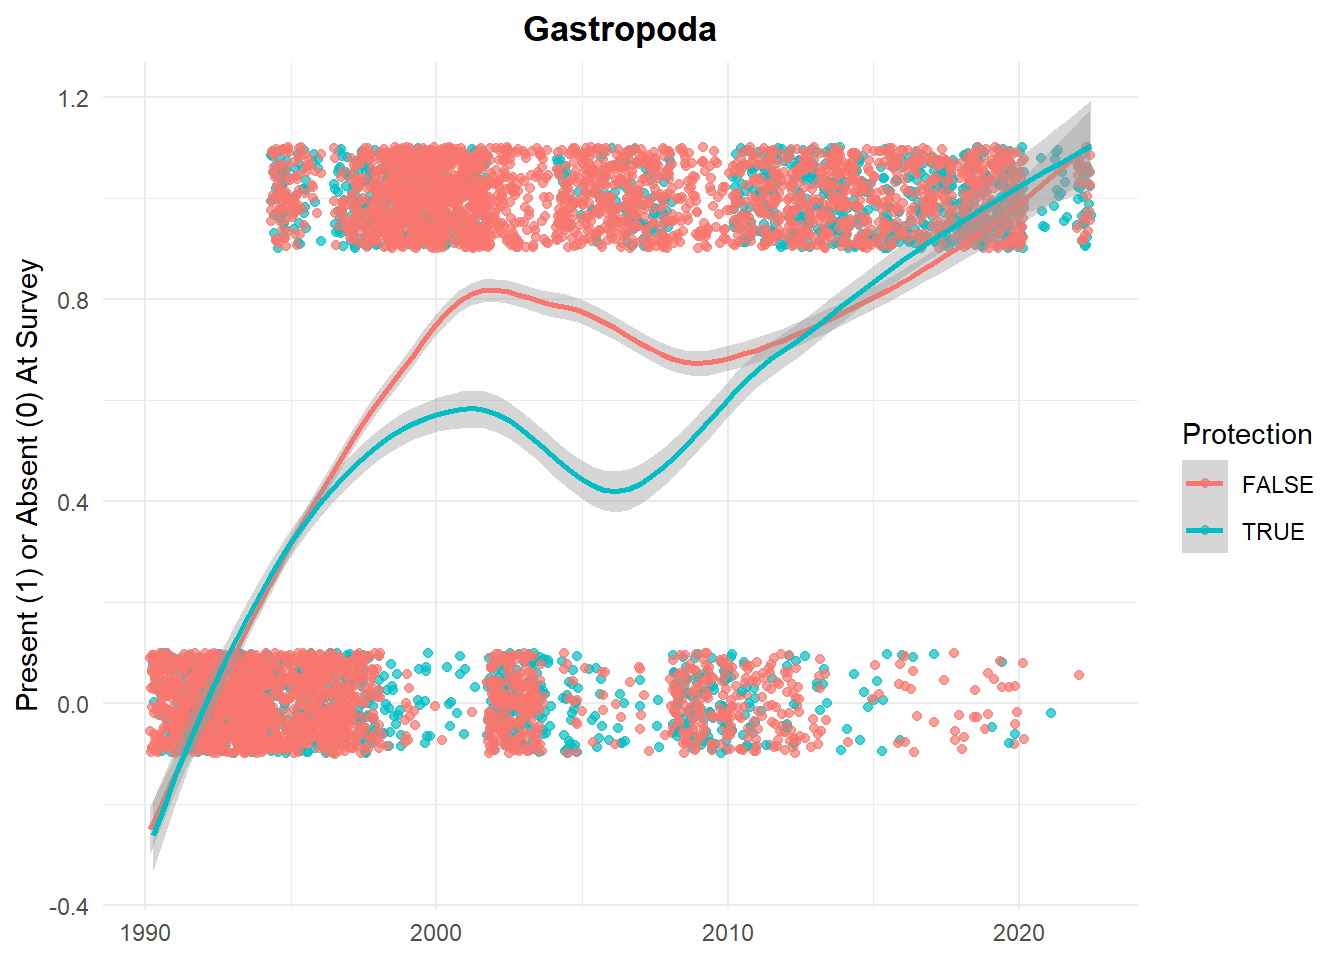
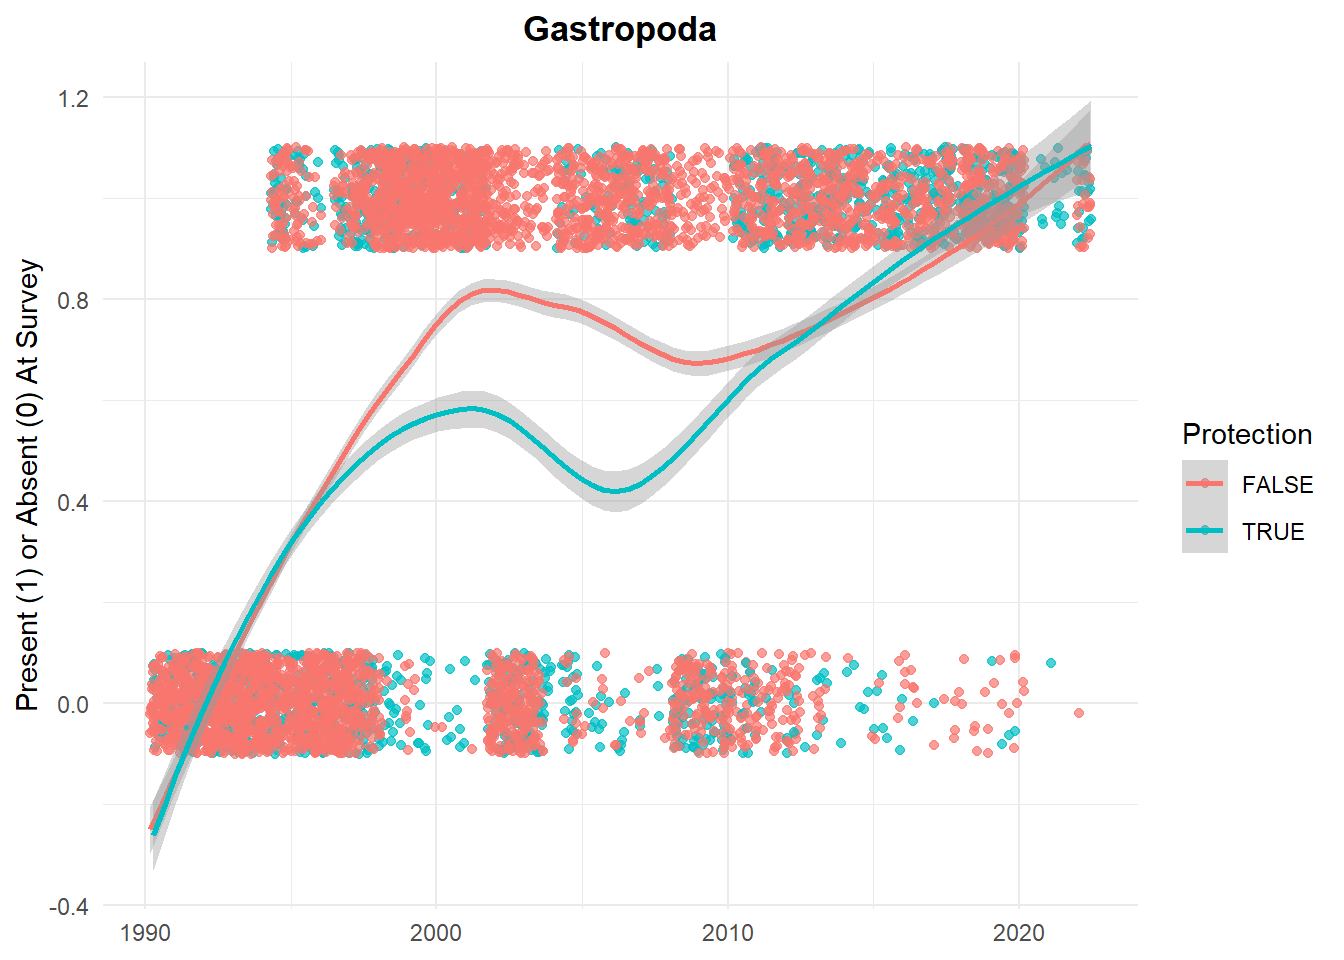
Fixed stats plots

Changed region(s): [[0.1875, 0.125, 0.8125, 0.2812], [0.1562, 0.6562, 0.7812, 0.8125], [0.0938, 0.6562, 0.1562, 0.7812]]

diff --git a/docs/posts/2022-12-9-stats-proj/index.html b/docs/posts/2022-12-9-stats-proj/index.html
@@ -267,6 +267,7 @@ code span.wa { color: #60a0b0; font-weight: bold; font-style: italic; } /* Warni
 </details>
 </div>
 <p>The protection data was not immediately available, I had to create a data frame with the values 1 for protected, 0 for unprotected. Protection was determined by the location of the piers. A pier is labeled unprotected if located in populated developed areas such as Ocean Beach, San Diego; protected piers are located in undeveloped parks surrounded by marine protected areas, including Channel Islands National Park and Point Cabrillo State Marine Reserve.</p>
[1 lines of base64/hex data omitted]
 <div class="cell">
 <details>
 <summary>Show the code</summary>
@@ -640,7 +641,7 @@ SpeciesPresence = B_0 + B_1 date_t + B_2 protection + E_t
 <summary>Show the code</summary>
 <div class="sourceCode cell-code" id="cb9"><pre class="sourceCode r code-with-copy"><code class="sourceCode r"><span id="cb9-1"><a href="#cb9-1" aria-hidden="true" tabindex="-1"></a><span class="fu">summary</span>(<span class="fu">lm</span>(TOTAL_URCHINS <span class="sc">~</span> DATE_RETRIEVED <span class="sc">+</span> Protection, <span class="at">data =</span> PresentDF))</span>
 <span id="cb9-2"><a href="#cb9-2" aria-hidden="true" tabindex="-1"></a>Time_Urch <span class="ot">&lt;-</span> <span class="fu">ggplot</span>(PresentDF, <span class="fu">aes</span>(<span class="at">x =</span> DATE_RETRIEVED, <span class="at">y =</span> TOTAL_URCHINS, <span class="at">color =</span> Protection)) <span class="sc">+</span></span>
-<span id="cb9-3"><a href="#cb9-3" aria-hidden="true" tabindex="-1"></a>  <span class="fu">geom_jitter</span>(<span class="at">height =</span> .<span class="dv">1</span>, <span class="at">alpha =</span> .<span class="dv">7</span>) <span class="sc">+</span></span>
+<span id="cb9-3"><a href="#cb9-3" aria-hidden="true" tabindex="-1"></a>  <span class="fu">geom_jitter</span>(<span class="at">height =</span> .<span class="dv">1</span>, <span class="at">alpha =</span> .<span class="dv">6</span>) <span class="sc">+</span></span>
 <span id="cb9-4"><a href="#cb9-4" aria-hidden="true" tabindex="-1"></a>  <span class="fu">geom_smooth</span>(<span class="at">method =</span> loess, <span class="at">formula =</span> <span class="st">'y ~ x'</span>) <span class="sc">+</span></span>
 <span id="cb9-5"><a href="#cb9-5" aria-hidden="true" tabindex="-1"></a>  <span class="fu">theme_minimal</span>() <span class="sc">+</span></span>
 <span id="cb9-6"><a href="#cb9-6" aria-hidden="true" tabindex="-1"></a>  <span class="fu">labs</span>(<span class="at">title =</span> <span class="st">"Total Urchins"</span>,</span>
@@ -651,7 +652,7 @@ SpeciesPresence = B_0 + B_1 date_t + B_2 protection + E_t
 <span id="cb9-11"><a href="#cb9-11" aria-hidden="true" tabindex="-1"></a></span>
 <span id="cb9-12"><a href="#cb9-12" aria-hidden="true" tabindex="-1"></a><span class="fu">summary</span>(<span class="fu">lm</span>(ARTHROPODA <span class="sc">~</span> DATE_RETRIEVED <span class="sc">+</span> Protection, <span class="at">data =</span> PresentDF))</span>
 <span id="cb9-13"><a href="#cb9-13" aria-hidden="true" tabindex="-1"></a>Time_Art <span class="ot">&lt;-</span> <span class="fu">ggplot</span>(PresentDF, <span class="fu">aes</span>(<span class="at">x =</span> DATE_RETRIEVED, <span class="at">y =</span> ARTHROPODA, <span class="at">color =</span> Protection)) <span class="sc">+</span></span>
-<span id="cb9-14"><a href="#cb9-14" aria-hidden="true" tabindex="-1"></a>  <span class="fu">geom_jitter</span>(<span class="at">height =</span> .<span class="dv">1</span>, <span class="at">alpha =</span> .<span class="dv">7</span>) <span class="sc">+</span></span>
+<span id="cb9-14"><a href="#cb9-14" aria-hidden="true" tabindex="-1"></a>  <span class="fu">geom_jitter</span>(<span class="at">height =</span> .<span class="dv">1</span>, <span class="at">alpha =</span> .<span class="dv">6</span>) <span class="sc">+</span></span>
 <span id="cb9-15"><a href="#cb9-15" aria-hidden="true" tabindex="-1"></a>  <span class="fu">geom_smooth</span>(<span class="at">method =</span> loess, <span class="at">formula =</span> <span class="st">'y ~ x'</span>) <span class="sc">+</span></span>
 <span id="cb9-16"><a href="#cb9-16" aria-hidden="true" tabindex="-1"></a>  <span class="fu">theme_minimal</span>() <span class="sc">+</span></span>
 <span id="cb9-17"><a href="#cb9-17" aria-hidden="true" tabindex="-1"></a>  <span class="fu">labs</span>(<span class="at">title =</span> <span class="st">"Arthropoda"</span>,</span>
@@ -662,29 +663,29 @@ SpeciesPresence = B_0 + B_1 date_t + B_2 protection + E_t
 <span id="cb9-22"><a href="#cb9-22" aria-hidden="true" tabindex="-1"></a></span>
 <span id="cb9-23"><a href="#cb9-23" aria-hidden="true" tabindex="-1"></a><span class="fu">summary</span>(<span class="fu">lm</span>(BIVALVIA <span class="sc">~</span> DATE_RETRIEVED <span class="sc">+</span> Protection, <span class="at">data =</span> PresentDF))</span>
 <span id="cb9-24"><a href="#cb9-24" aria-hidden="true" tabindex="-1"></a>Time_Biv <span class="ot">&lt;-</span> <span class="fu">ggplot</span>(PresentDF, <span class="fu">aes</span>(<span class="at">x =</span> DATE_RETRIEVED, <span class="at">y =</span> BIVALVIA, <span class="at">color =</span> Protection)) <span class="sc">+</span></span>
-<span id="cb9-25"><a href="#cb9-25" aria-hidden="true" tabindex="-1"></a>  <span class="fu">geom_jitter</span>(<span class="at">height =</span> .<span class="dv">1</span>, <span class="at">alpha =</span> .<span class="dv">7</span>) <span class="sc">+</span></span>
+<span id="cb9-25"><a href="#cb9-25" aria-hidden="true" tabindex="-1"></a>  <span class="fu">geom_jitter</span>(<span class="at">height =</span> .<span class="dv">1</span>, <span class="at">alpha =</span> .<span class="dv">6</span>) <span class="sc">+</span></span>
 <span id="cb9-26"><a href="#cb9-26" aria-hidden="true" tabindex="-1"></a>  <span class="fu">geom_smooth</span>(<span class="at">method =</span> loess, <span class="at">formula =</span> <span class="st">'y ~ x'</span>) <span class="sc">+</span></span>
 <span id="cb9-27"><a href="#cb9-27" aria-hidden="true" tabindex="-1"></a>  <span class="fu">theme_minimal</span>() <span class="sc">+</span></span>
 <span id="cb9-28"><a href="#cb9-28" aria-hidden="true" tabindex="-1"></a>  <span class="fu">labs</span>(<span class="at">title =</span> <span class="st">"Bivalvia"</span>,</span>
-<span id="cb9-29"><a href="#cb9-29" aria-hidden="true" tabindex="-1"></a>       <span class="at">x =</span> <span class="cn">NULL</span>,</span>
-<span id="cb9-30"><a href="#cb9-30" aria-hidden="true" tabindex="-1"></a>       <span class="at">y =</span> <span class="cn">NULL</span>) <span class="sc">+</span></span>
+<span id="cb9-29"><a href="#cb9-29" aria-hidden="true" tabindex="-1"></a>       <span class="at">x =</span> <span class="cn">NULL</span>) <span class="sc">+</span></span>
+<span id="cb9-30"><a href="#cb9-30" aria-hidden="true" tabindex="-1"></a>  <span class="fu">ylab</span>(<span class="st">"Present (1) or Absent (0) At Survey"</span>) <span class="sc">+</span></span>
 <span id="cb9-31"><a href="#cb9-31" aria-hidden="true" tabindex="-1"></a>  <span class="fu">theme</span>(<span class="at">plot.title =</span> <span class="fu">element_text</span>(<span class="at">face =</span> <span class="st">"bold"</span>,</span>
 <span id="cb9-32"><a href="#cb9-32" aria-hidden="true" tabindex="-1"></a>                                  <span class="at">hjust =</span> .<span class="dv">5</span>))</span>
 <span id="cb9-33"><a href="#cb9-33" aria-hidden="true" tabindex="-1"></a></span>
 <span id="cb9-34"><a href="#cb9-34" aria-hidden="true" tabindex="-1"></a><span class="fu">summary</span>(<span class="fu">lm</span>(GASTROPODA <span class="sc">~</span> DATE_RETRIEVED <span class="sc">+</span> Protection, <span class="at">data =</span> PresentDF))</span>
 <span id="cb9-35"><a href="#cb9-35" aria-hidden="true" tabindex="-1"></a>Time_Gast <span class="ot">&lt;-</span> <span class="fu">ggplot</span>(PresentDF, <span class="fu">aes</span>(<span class="at">x =</span> DATE_RETRIEVED, <span class="at">y =</span> GASTROPODA, <span class="at">color =</span> Protection)) <span class="sc">+</span></span>
-<span id="cb9-36"><a href="#cb9-36" aria-hidden="true" tabindex="-1"></a>  <span class="fu">geom_jitter</span>(<span class="at">height =</span> .<span class="dv">1</span>, <span class="at">alpha =</span> .<span class="dv">7</span>) <span class="sc">+</span></span>
+<span id="cb9-36"><a href="#cb9-36" aria-hidden="true" tabindex="-1"></a>  <span class="fu">geom_jitter</span>(<span class="at">height =</span> .<span class="dv">1</span>, <span class="at">alpha =</span> .<span class="dv">6</span>) <span class="sc">+</span></span>
 <span id="cb9-37"><a href="#cb9-37" aria-hidden="true" tabindex="-1"></a>  <span class="fu">geom_smooth</span>(<span class="at">method =</span> loess, <span class="at">formula =</span> <span class="st">'y ~ x'</span>) <span class="sc">+</span></span>
 <span id="cb9-38"><a href="#cb9-38" aria-hidden="true" tabindex="-1"></a>  <span class="fu">theme_minimal</span>() <span class="sc">+</span></span>
 <span id="cb9-39"><a href="#cb9-39" aria-hidden="true" tabindex="-1"></a>  <span class="fu">labs</span>(<span class="at">title =</span> <span class="st">"Gastropoda"</span>,</span>
-<span id="cb9-40"><a href="#cb9-40" aria-hidden="true" tabindex="-1"></a>       <span class="at">x =</span> <span class="cn">NULL</span>) <span class="sc">+</span></span>
-<span id="cb9-41"><a href="#cb9-41" aria-hidden="true" tabindex="-1"></a>  <span class="fu">ylab</span>(<span class="st">"Present (1) or Absent (0) At Survey"</span>) <span class="sc">+</span></span>
+<span id="cb9-40"><a href="#cb9-40" aria-hidden="true" tabindex="-1"></a>       <span class="at">x =</span> <span class="cn">NULL</span>,</span>
+<span id="cb9-41"><a href="#cb9-41" aria-hidden="true" tabindex="-1"></a>       <span class="at">y =</span> <span class="cn">NULL</span>) <span class="sc">+</span></span>
 <span id="cb9-42"><a href="#cb9-42" aria-hidden="true" tabindex="-1"></a>  <span class="fu">theme</span>(<span class="at">plot.title =</span> <span class="fu">element_text</span>(<span class="at">face =</span> <span class="st">"bold"</span>,</span>
 <span id="cb9-43"><a href="#cb9-43" aria-hidden="true" tabindex="-1"></a>                                  <span class="at">hjust =</span> .<span class="dv">5</span>))</span>
 <span id="cb9-44"><a href="#cb9-44" aria-hidden="true" tabindex="-1"></a></span>
 <span id="cb9-45"><a href="#cb9-45" aria-hidden="true" tabindex="-1"></a><span class="fu">summary</span>(<span class="fu">lm</span>(OPHIUROIDEA_ASTERPODEA <span class="sc">~</span> DATE_RETRIEVED <span class="sc">+</span> Protection, <span class="at">data =</span> PresentDF))</span>
 <span id="cb9-46"><a href="#cb9-46" aria-hidden="true" tabindex="-1"></a>Time_Oph <span class="ot">&lt;-</span> <span class="fu">ggplot</span>(PresentDF, <span class="fu">aes</span>(<span class="at">x =</span> DATE_RETRIEVED, <span class="at">y =</span> OPHIUROIDEA_ASTERPODEA, <span class="at">color =</span> Protection)) <span class="sc">+</span></span>
-<span id="cb9-47"><a href="#cb9-47" aria-hidden="true" tabindex="-1"></a>  <span class="fu">geom_jitter</span>(<span class="at">height =</span> .<span class="dv">1</span>, <span class="at">alpha =</span> .<span class="dv">7</span>) <span class="sc">+</span></span>
+<span id="cb9-47"><a href="#cb9-47" aria-hidden="true" tabindex="-1"></a>  <span class="fu">geom_jitter</span>(<span class="at">height =</span> .<span class="dv">1</span>, <span class="at">alpha =</span> .<span class="dv">6</span>) <span class="sc">+</span></span>
 <span id="cb9-48"><a href="#cb9-48" aria-hidden="true" tabindex="-1"></a>  <span class="fu">geom_smooth</span>(<span class="at">method =</span> loess, <span class="at">formula =</span> <span class="st">'y ~ x'</span>) <span class="sc">+</span></span>
 <span id="cb9-49"><a href="#cb9-49" aria-hidden="true" tabindex="-1"></a>  <span class="fu">theme_minimal</span>() <span class="sc">+</span></span>
 <span id="cb9-50"><a href="#cb9-50" aria-hidden="true" tabindex="-1"></a>  <span class="fu">labs</span>(<span class="at">title =</span> <span class="st">"Ophiuroida/Asterpodea"</span>,</span>
@@ -695,7 +696,7 @@ SpeciesPresence = B_0 + B_1 date_t + B_2 protection + E_t
 <span id="cb9-55"><a href="#cb9-55" aria-hidden="true" tabindex="-1"></a></span>
 <span id="cb9-56"><a href="#cb9-56" aria-hidden="true" tabindex="-1"></a><span class="fu">summary</span>(<span class="fu">lm</span>(S_PURPURATUS <span class="sc">~</span> DATE_RETRIEVED <span class="sc">+</span> Protection, <span class="at">data =</span> PresentDF))</span>
 <span id="cb9-57"><a href="#cb9-57" aria-hidden="true" tabindex="-1"></a>Time_Purp <span class="ot">&lt;-</span> <span class="fu">ggplot</span>(PresentDF, <span class="fu">aes</span>(<span class="at">x =</span> DATE_RETRIEVED, <span class="at">y =</span> S_PURPURATUS, <span class="at">color =</span> Protection)) <span class="sc">+</span></span>
-<span id="cb9-58"><a href="#cb9-58" aria-hidden="true" tabindex="-1"></a>  <span class="fu">geom_jitter</span>(<span class="at">height =</span> .<span class="dv">1</span>, <span class="at">alpha =</span> .<span class="dv">7</span>) <span class="sc">+</span></span>
+<span id="cb9-58"><a href="#cb9-58" aria-hidden="true" tabindex="-1"></a>  <span class="fu">geom_jitter</span>(<span class="at">height =</span> .<span class="dv">1</span>, <span class="at">alpha =</span> .<span class="dv">6</span>) <span class="sc">+</span></span>
 <span id="cb9-59"><a href="#cb9-59" aria-hidden="true" tabindex="-1"></a>  <span class="fu">geom_smooth</span>(<span class="at">method =</span> loess, <span class="at">formula =</span> <span class="st">'y ~ x'</span>) <span class="sc">+</span></span>
 <span id="cb9-60"><a href="#cb9-60" aria-hidden="true" tabindex="-1"></a>  <span class="fu">theme_minimal</span>() <span class="sc">+</span></span>
 <span id="cb9-61"><a href="#cb9-61" aria-hidden="true" tabindex="-1"></a>  <span class="fu">labs</span>(<span class="at">title =</span> <span class="st">"S Purpuratus"</span>,</span>
@@ -706,7 +707,7 @@ SpeciesPresence = B_0 + B_1 date_t + B_2 protection + E_t
 <span id="cb9-66"><a href="#cb9-66" aria-hidden="true" tabindex="-1"></a></span>
 <span id="cb9-67"><a href="#cb9-67" aria-hidden="true" tabindex="-1"></a><span class="fu">summary</span>(<span class="fu">lm</span>(M_FRANCISCANUS <span class="sc">~</span> DATE_RETRIEVED <span class="sc">+</span> Protection, <span class="at">data =</span> PresentDF))</span>
 <span id="cb9-68"><a href="#cb9-68" aria-hidden="true" tabindex="-1"></a>Time_Franc <span class="ot">&lt;-</span> <span class="fu">ggplot</span>(PresentDF, <span class="fu">aes</span>(<span class="at">x =</span> DATE_RETRIEVED, <span class="at">y =</span> M_FRANCISCANUS, <span class="at">color =</span> Protection)) <span class="sc">+</span></span>
-<span id="cb9-69"><a href="#cb9-69" aria-hidden="true" tabindex="-1"></a>  <span class="fu">geom_jitter</span>(<span class="at">height =</span> .<span class="dv">1</span>, <span class="at">alpha =</span> .<span class="dv">7</span>) <span class="sc">+</span></span>
+<span id="cb9-69"><a href="#cb9-69" aria-hidden="true" tabindex="-1"></a>  <span class="fu">geom_jitter</span>(<span class="at">height =</span> .<span class="dv">1</span>, <span class="at">alpha =</span> .<span class="dv">6</span>) <span class="sc">+</span></span>
 <span id="cb9-70"><a href="#cb9-70" aria-hidden="true" tabindex="-1"></a>  <span class="fu">geom_smooth</span>(<span class="at">method =</span> loess, <span class="at">formula =</span> <span class="st">'y ~ x'</span>) <span class="sc">+</span></span>
 <span id="cb9-71"><a href="#cb9-71" aria-hidden="true" tabindex="-1"></a>  <span class="fu">theme_minimal</span>() <span class="sc">+</span></span>
 <span id="cb9-72"><a href="#cb9-72" aria-hidden="true" tabindex="-1"></a>  <span class="fu">labs</span>(<span class="at">title =</span> <span class="st">"M franciscanus"</span>,</span>
@@ -719,56 +720,13 @@ SpeciesPresence = B_0 + B_1 date_t + B_2 protection + E_t
 <div class="cell">
 <details>
 <summary>Show the code</summary>
-<div class="sourceCode cell-code" id="cb10"><pre class="sourceCode r code-with-copy"><code class="sourceCode r"><span id="cb10-1"><a href="#cb10-1" aria-hidden="true" tabindex="-1"></a><span class="co"># ggarrange(Time_Urch, Time_Art, Time_Biv, Time_Gast, Time_Oph, Time_Purp, Time_Franc + rremove("x.text"), </span></span>
-<span id="cb10-2"><a href="#cb10-2" aria-hidden="true" tabindex="-1"></a><span class="co">#           ncol = 1, nrow = 7,</span></span>
-<span id="cb10-3"><a href="#cb10-3" aria-hidden="true" tabindex="-1"></a><span class="co">#           common.legend = TRUE,</span></span>
-<span id="cb10-4"><a href="#cb10-4" aria-hidden="true" tabindex="-1"></a><span class="co">#           legend = "right")</span></span>
-<span id="cb10-5"><a href="#cb10-5" aria-hidden="true" tabindex="-1"></a>Time_Urch</span></code><button title="Copy to Clipboard" class="code-copy-button"><i class="bi"></i></button></pre></div>
+<div class="sourceCode cell-code" id="cb10"><pre class="sourceCode r code-with-copy"><code class="sourceCode r"><span id="cb10-1"><a href="#cb10-1" aria-hidden="true" tabindex="-1"></a><span class="fu">ggarrange</span>(Time_Urch, Time_Art, Time_Biv, Time_Gast, Time_Oph, Time_Purp, Time_Franc <span class="sc">+</span> <span class="fu">rremove</span>(<span class="st">"x.text"</span>),</span>
+<span id="cb10-2"><a href="#cb10-2" aria-hidden="true" tabindex="-1"></a>          <span class="at">ncol =</span> <span class="dv">2</span>, <span class="at">nrow =</span> <span class="dv">4</span>,</span>
+<span id="cb10-3"><a href="#cb10-3" aria-hidden="true" tabindex="-1"></a>          <span class="at">common.legend =</span> <span class="cn">TRUE</span>,</span>
+<span id="cb10-4"><a href="#cb10-4" aria-hidden="true" tabindex="-1"></a>          <span class="at">legend =</span> <span class="st">"right"</span>)</span></code><button title="Copy to Clipboard" class="code-copy-button"><i class="bi"></i></button></pre></div>
 </details>
 <div class="cell-output-display">
 <p><img src="index_files/figure-html/unnamed-chunk-10-1.png" class="img-fluid" width="672"></p>
-</div>
-<details>
-<summary>Show the code</summary>
-<div class="sourceCode cell-code" id="cb11"><pre class="sourceCode r code-with-copy"><code class="sourceCode r"><span id="cb11-1"><a href="#cb11-1" aria-hidden="true" tabindex="-1"></a>Time_Art</span></code><button title="Copy to Clipboard" class="code-copy-button"><i class="bi"></i></button></pre></div>
-</details>
-<div class="cell-output-display">
-<p><img src="index_files/figure-html/unnamed-chunk-10-2.png" class="img-fluid" width="672"></p>
-</div>
-<details>
-<summary>Show the code</summary>
-<div class="sourceCode cell-code" id="cb12"><pre class="sourceCode r code-with-copy"><code class="sourceCode r"><span id="cb12-1"><a href="#cb12-1" aria-hidden="true" tabindex="-1"></a>Time_Biv</span></code><button title="Copy to Clipboard" class="code-copy-button"><i class="bi"></i></button></pre></div>
-</details>
-<div class="cell-output-display">
-<p><img src="index_files/figure-html/unnamed-chunk-10-3.png" class="img-fluid" width="672"></p>
-</div>
-<details>
-<summary>Show the code</summary>
-<div class="sourceCode cell-code" id="cb13"><pre class="sourceCode r code-with-copy"><code class="sourceCode r"><span id="cb13-1"><a href="#cb13-1" aria-hidden="true" tabindex="-1"></a>Time_Gast</span></code><button title="Copy to Clipboard" class="code-copy-button"><i class="bi"></i></button></pre></div>
-</details>
-<div class="cell-output-display">
-<p><img src="index_files/figure-html/unnamed-chunk-10-4.png" class="img-fluid" width="672"></p>
-</div>
-<details>
-<summary>Show the code</summary>
-<div class="sourceCode cell-code" id="cb14"><pre class="sourceCode r code-with-copy"><code class="sourceCode r"><span id="cb14-1"><a href="#cb14-1" aria-hidden="true" tabindex="-1"></a>Time_Oph</span></code><button title="Copy to Clipboard" class="code-copy-button"><i class="bi"></i></button></pre></div>
-</details>
-<div class="cell-output-display">
-<p><img src="index_files/figure-html/unnamed-chunk-10-5.png" class="img-fluid" width="672"></p>
-</div>
-<details>
-<summary>Show the code</summary>
-<div class="sourceCode cell-code" id="cb15"><pre class="sourceCode r code-with-copy"><code class="sourceCode r"><span id="cb15-1"><a href="#cb15-1" aria-hidden="true" tabindex="-1"></a>Time_Purp</span></code><button title="Copy to Clipboard" class="code-copy-button"><i class="bi"></i></button></pre></div>
-</details>
-<div class="cell-output-display">
-<p><img src="index_files/figure-html/unnamed-chunk-10-6.png" class="img-fluid" width="672"></p>
-</div>
-<details>
-<summary>Show the code</summary>
-<div class="sourceCode cell-code" id="cb16"><pre class="sourceCode r code-with-copy"><code class="sourceCode r"><span id="cb16-1"><a href="#cb16-1" aria-hidden="true" tabindex="-1"></a>Time_Franc</span></code><button title="Copy to Clipboard" class="code-copy-button"><i class="bi"></i></button></pre></div>
-</details>
-<div class="cell-output-display">
-<p><img src="index_files/figure-html/unnamed-chunk-10-7.png" class="img-fluid" width="672"></p>
 </div>
 </div>
 <p>There is a low p-value associated with time displaying significance in this variable for Arthropoda, Bivalvia, Gastropoda, and Ophiuroidea/Asterpodea. Time was not significant for Total Urchins, <em>S purpuratus</em>, or <em>M franciscanus.</em> Interesting to note, in this linear regression time series the protection was found to be significant for Ophiuroidea/Asterpodea and <em>M franciscanus</em> while the earlier t-test did not. Overall these regressions have low R squared values, which signify the proportion of the species presence explained by time and protection.</p>

diff --git a/docs/posts.html b/docs/posts.html
@@ -153,7 +153,7 @@ ul.task-list{list-style: none;}
 
 <div class="quarto-listing quarto-listing-container-default" id="listing-listing">
 <div class="list quarto-listing-default">
-<div class="quarto-post image-right" data-index="0" data-categories="MEDS,Statistics,R,California,Coastal Ecology,Hypothesis Testing,Time Series" data-listing-date-sort="1670572800000" data-listing-file-modified-sort="1670444631403" data-listing-reading-time-sort="16.075">
+<div class="quarto-post image-right" data-index="0" data-categories="MEDS,Statistics,R,California,Coastal Ecology,Hypothesis Testing,Time Series" data-listing-date-sort="1670572800000" data-listing-file-modified-sort="1670447895328" data-listing-reading-time-sort="16.065">
 <div class="thumbnail">
 <p><a href="./posts/2022-12-9-stats-proj/index.html"> <img src="./posts/2022-12-9-stats-proj/RedUrchin.png" class="thumnail-image"> </a></p>
 </div>
